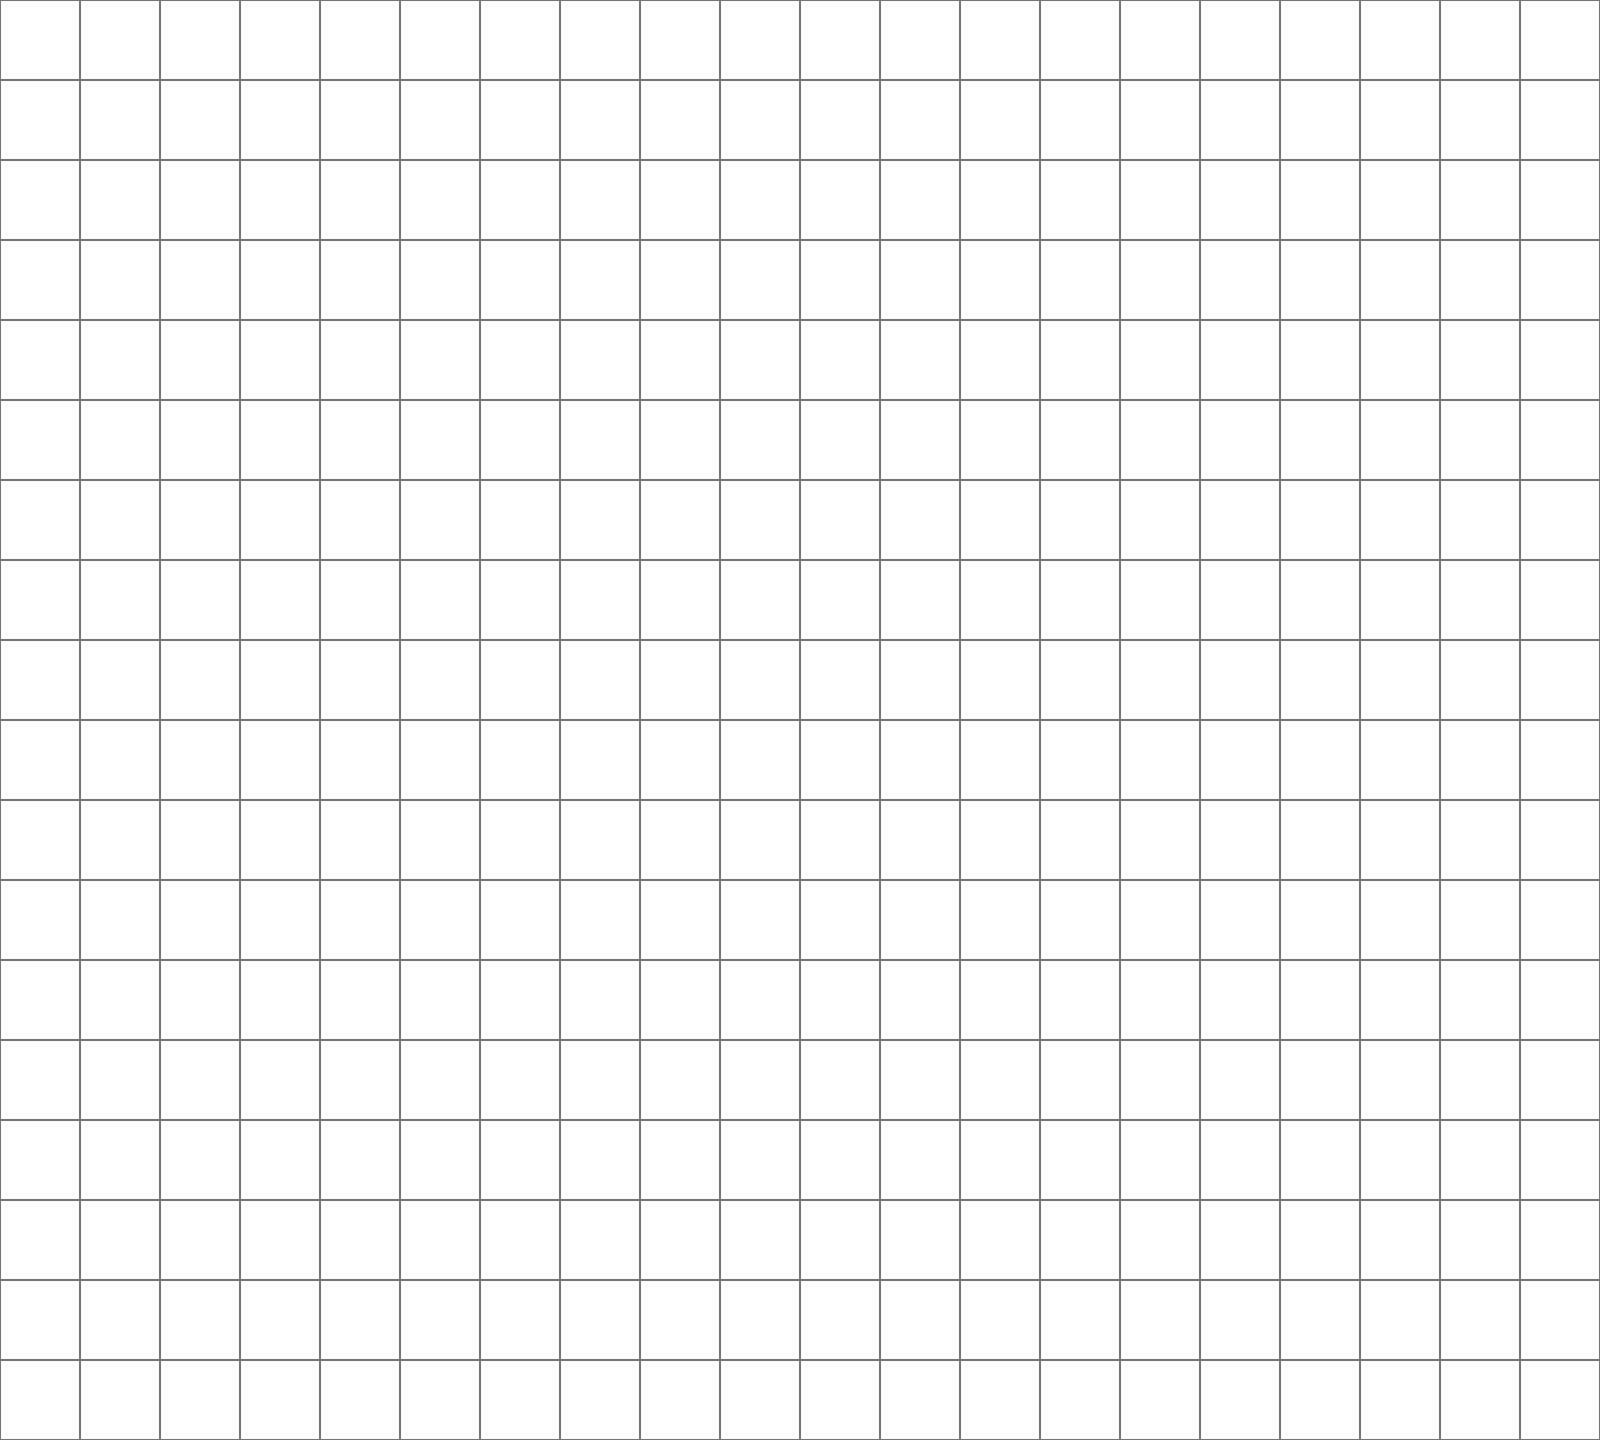
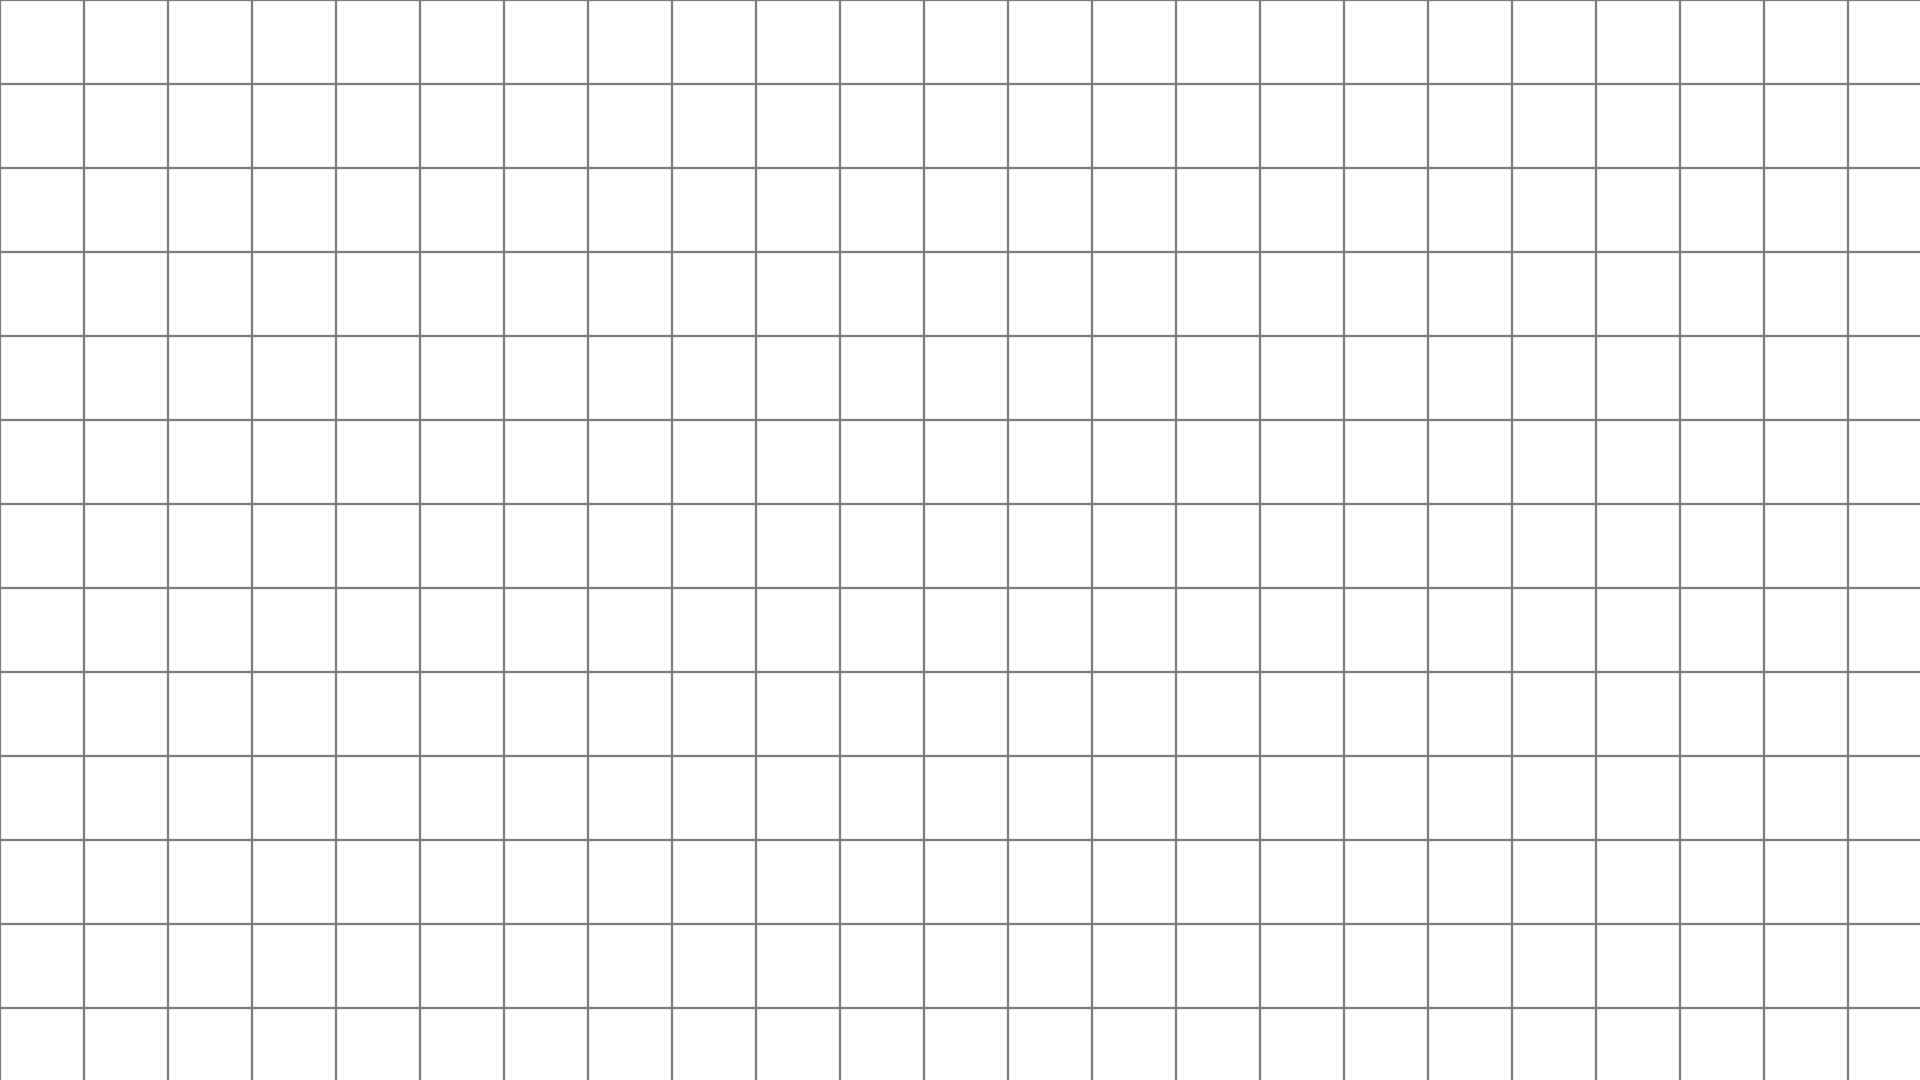
add voids to bg

diff --git a/src/scenes/MenuScene.ts b/src/scenes/MenuScene.ts
@@ -1,9 +1,11 @@
 import * as Phaser from 'phaser';
 // import { WorldScene } from './WorldScene';
 import { Background } from '../game-objects/';
+import { BoardColiders } from '../game-objects/';
 
 export class MenuScene extends Phaser.Scene {
 	private background: Background = new Background();
+	private boardColiders: BoardColiders = new BoardColiders();
 
 	constructor() {
 		super(sceneConfig);
@@ -11,10 +13,14 @@ export class MenuScene extends Phaser.Scene {
 
 	preload() {
 		this.background.load(this);
+		this.boardColiders.load(this);
 	}
 
 	create() {
 		this.background.initialize(this);
+		this.boardColiders.initialize(this);
+
+		this.buildBoard();
 
 		// this.input.once('pointerdown', () => this.scene.start(WorldScene.name));
 	}
@@ -22,6 +28,28 @@ export class MenuScene extends Phaser.Scene {
 	update() {
 		// TODO
 	}
+
+	//
+	private buildBoard = () => {
+		[
+			{ gridX: 11, gridY: 2 },
+			{ gridX: 12, gridY: 2 },
+			{ gridX: 4, gridY: 7 },
+			{ gridX: 5, gridY: 7 },
+			{ gridX: 5, gridY: 8 },
+			{ gridX: 5, gridY: 9 },
+			{ gridX: 12, gridY: 7 },
+			{ gridX: 13, gridY: 7 },
+			{ gridX: 13, gridY: 11 },
+			{ gridX: 14, gridY: 11 },
+			{ gridX: 13, gridY: 11 },
+			{ gridX: 15, gridY: 11 },
+			{ gridX: 16, gridY: 11 },
+			{ gridX: 17, gridY: 11 },
+			{ gridX: 18, gridY: 11 },
+			{ gridX: 19, gridY: 11 }
+		].forEach(this.boardColiders.createVoid);
+	};
 }
 
 const sceneConfig: Phaser.Types.Scenes.SettingsConfig = {

diff --git a/index.html b/index.html
@@ -1,30 +1,28 @@
 <!DOCTYPE html>
 <html lang="en">
+	<head>
+		<meta charset="UTF-8" />
+		<title>Sample Project</title>
+		<meta name="viewport" content="width=device-width, initial-scale=1, user-scalable=no" />
+		<meta name="HandheldFriendly" content="True" />
+		<meta name="MobileOptimized" content="320" />
+		<meta http-equiv="cleartype" content="on" />
+		<style>
+			html,
+			body,
+			canvas {
+				margin: 0 !important;
+				padding: 0 !important;
+				overflow: hidden !important;
+				width: 960px;
+				height: 540px;
+			}
+		</style>
+	</head>
 
-<head>
-	<meta charset="UTF-8" />
-	<title>Sample Project</title>
-	<meta name="viewport" content="width=device-width, initial-scale=1, user-scalable=no" />
-	<meta name="HandheldFriendly" content="True" />
-	<meta name="MobileOptimized" content="320" />
-	<meta http-equiv="cleartype" content="on" />
-	<style>
-		html,
-		body,
-		canvas {
-			margin: 0 !important;
-			padding: 0 !important;
-			overflow: hidden !important;
-			width: 800px;
-			height: 720px;
-		}
-	</style>
-</head>
-
-<body>
-	<div id="game"></div>
-	<script src="vendors.app.bundle.js"></script>
-	<script src="app.bundle.js"></script>
-</body>
-
+	<body>
+		<div id="game"></div>
+		<script src="vendors.app.bundle.js"></script>
+		<script src="app.bundle.js"></script>
+	</body>
 </html>

diff --git a/src/game-objects/BoardColiders.ts b/src/game-objects/BoardColiders.ts
@@ -1,0 +1,24 @@
+import * as Phaser from 'phaser';
+import { boardAssets } from '../assets/board';
+import { GameObject } from './GameObject';
+import { gridToCanvas } from './index';
+// import { game } from '../main';
+
+export class BoardColiders extends GameObject {
+	public static voidSpriteKey = boardAssets.VOID.toString();
+	public group: Phaser.Physics.Arcade.StaticGroup;
+
+	public load = (scene: Phaser.Scene) => {
+		scene.load.image(BoardColiders.voidSpriteKey, boardAssets.VOID);
+	};
+
+	public initialize = (scene: Phaser.Scene) => {
+		this.group = scene.physics.add.staticGroup();
+	};
+
+	public createVoid = ({ gridX, gridY }: { gridX: number; gridY: number }) => {
+		const { x, y } = gridToCanvas({ gridX, gridY });
+		// const voidGrid: Phaser.Physics.Arcade.Image =
+		this.group.create(x, y, BoardColiders.voidSpriteKey);
+	};
+}

diff --git a/src/game-objects/index.ts b/src/game-objects/index.ts
@@ -1,4 +1,17 @@
 import { Background } from './Background';
+import { BoardColiders } from './BoardColiders';
 import { GameObject } from './GameObject';
 
-export { Background, GameObject };
+export const GRID_SIZE = 84;
+
+export const gridToCanvas = ({ gridX, gridY }: { gridX: number; gridY: number }) => {
+	const x = gridX * GRID_SIZE + GRID_SIZE / 2;
+	const y = gridY * GRID_SIZE + GRID_SIZE / 2;
+
+	return {
+		x,
+		y
+	};
+};
+
+export { Background, GameObject, BoardColiders };

diff --git a/src/game-objects/GameObject.ts b/src/game-objects/GameObject.ts
@@ -2,6 +2,6 @@ import * as Phaser from 'phaser';
 
 export abstract class GameObject {
 	public abstract load(scene: Phaser.Scene): void;
-	public abstract initialize(scene: Phaser.Scene): void;
+	public abstract initialize(scene: Phaser.Scene, options?: any): void;
 	public update(): void {}
 }

diff --git a/src/assets/board/index.ts b/src/assets/board/index.ts
@@ -11,6 +11,6 @@ export const boardAssets = {
 	RESISTOR: '/src/assets/board/resistor.png',
 	RESISTOR_ACTIVE: '/src/assets/board/blank.png',
 	USER: '/src/assets/board/user.png',
-	VOID: '/src/assets/board/vodi.png',
+	VOID: '/src/assets/board/void.png',
 	BG: '/src/assets/board/bg.png'
 };

diff --git a/src/config.ts b/src/config.ts
@@ -7,8 +7,8 @@ export const mainConfig: Phaser.Types.Core.GameConfig = {
 	scale: {
 		// width: window.innerWidth,
 		// height: window.innerHeight
-		width: 1600,
-		height: 1440
+		width: 1920,
+		height: 1080
 	},
 	physics: {
 		default: 'arcade',
